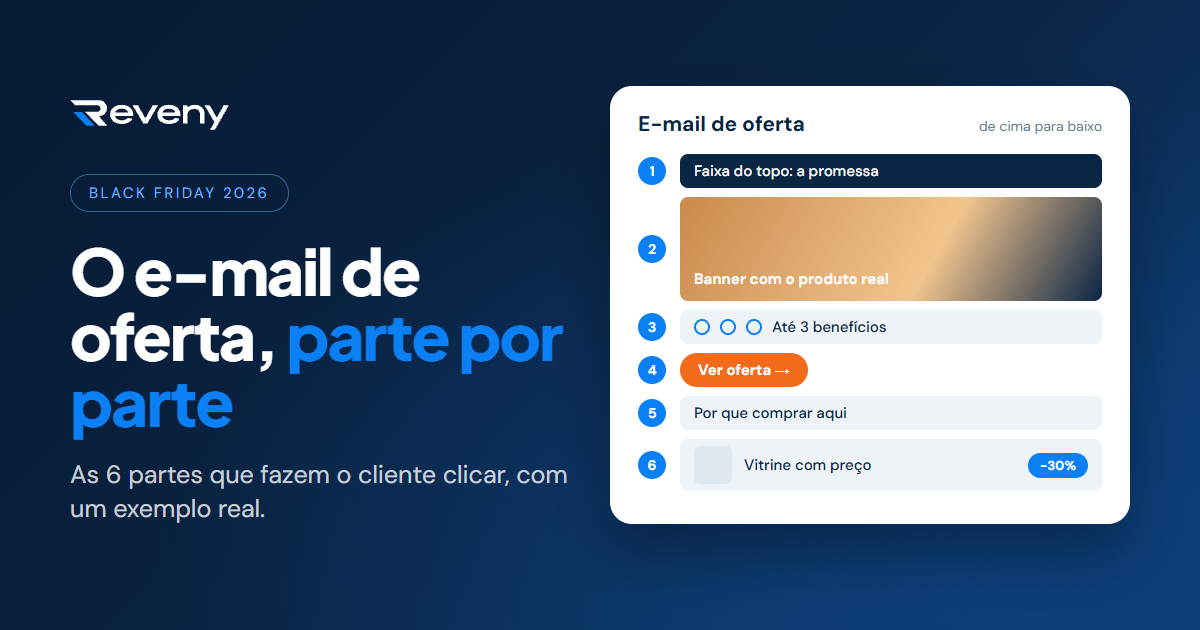
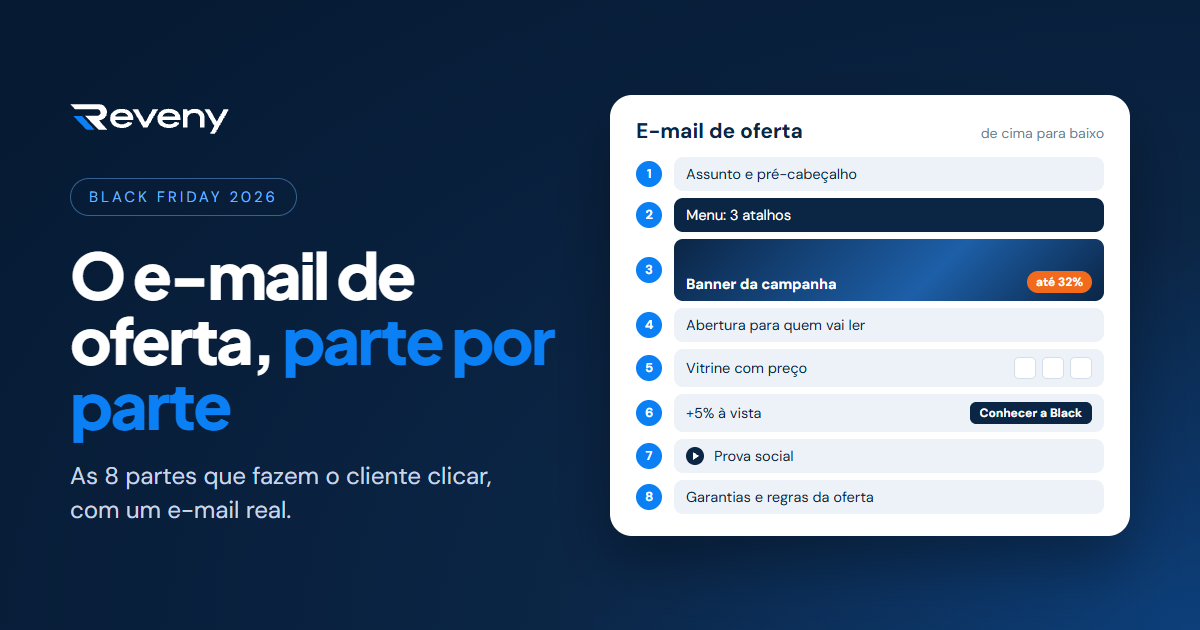
fix(blog): post do e-mail de oferta reescrito com o e-mail Black Novembro
O exemplo anterior era um teste cortado na vitrine (preço "xpto",
nome trocado). Agora usa o e-mail que a Casa das Cercas mandou pra quem
já comprou, inteiro, em 8 partes; capa nova.

diff --git a/src/content/blog/email-de-oferta-black-friday.md b/src/content/blog/email-de-oferta-black-friday.md
@@ -1,95 +1,121 @@
 ---
 title: "E-mail de oferta da Black Friday: como montar, parte por parte (com exemplo real)"
-description: "As 6 partes de um e-mail de oferta que funciona na Black Friday, do topo ao último botão, explicadas com um e-mail real da Casa das Cercas. E os erros que mais derrubam o clique."
+description: "As 8 partes de um e-mail de oferta de Black Friday, do assunto ao rodapé, explicadas com um e-mail real que a Casa das Cercas mandou para quem já tinha comprado na loja. E os erros que mais derrubam o clique."
 date: 2026-11-22T20:30:00Z
 tag: Black Friday
 cover: /capas/email-de-oferta-black-friday.png
-coverAlt: "E-mail de Black Friday dividido em partes numeradas: faixa do topo, banner, benefícios, botão, texto e vitrine"
+coverAlt: "E-mail de Black Friday dividido em 8 partes numeradas: assunto, menu, banner, abertura, vitrine, condição extra, prova social e garantias"
 ---
 
-Na Black Friday, o e-mail de oferta é o que mais trabalha. Ele vai na abertura da campanha, volta nos lembretes e de novo nas últimas horas. Se ele estiver mal montado, todo o resto da estratégia perde força: o [calendário](/blog/calendario-email-marketing-black-friday/) acerta o dia, o [assunto](/blog/assuntos-email-black-friday/) consegue a abertura, a [segmentação](/blog/segmentacao-email-black-friday/) acerta a pessoa, e o e-mail não convence.
+Na Black Friday, o e-mail de oferta é o que mais trabalha. Ele sai na abertura da campanha, volta nos lembretes e de novo nas últimas horas. Se ele estiver mal montado, o resto da estratégia perde força: o [calendário](/blog/calendario-email-marketing-black-friday/) acerta o dia, o [assunto](/blog/assuntos-email-black-friday/) consegue a abertura, a [segmentação](/blog/segmentacao-email-black-friday/) acerta a pessoa, e o e-mail não convence.
 
-Este guia mostra as partes de um e-mail de oferta, de cima para baixo, usando como exemplo um e-mail de verdade: o da Casa das Cercas, fábrica de cercas e gradis de aço que vende direto para o consumidor.
+Este guia mostra as partes de um e-mail de oferta, de cima para baixo, usando um e-mail de verdade: o "Black Novembro" da **Casa das Cercas**, loja virtual da indústria Insul, de cercas, gradis e telas de aço. Esse e-mail foi feito para um público específico: **quem já tinha comprado na loja**.
 
-![E-mail de Black Friday da Casa das Cercas, com faixa no topo, banner do Gradil Insul Preto, ícones de benefícios, botão Ver oferta, texto curto e vitrine de produtos](/exemplos/email-casa-das-cercas.jpg)
+![E-mail Black Novembro da Casa das Cercas: menu no topo, banner com o Gradil Insul e até 32% de desconto, título da marca, texto para quem já comprou, vitrine com três produtos, faixa de 5% de desconto à vista, dois vídeos de clientes e faixa de garantias](/exemplos/casa-das-cercas-black-novembro.jpg)
 
-## 1. A faixa do topo: a promessa em uma linha
+## 1. Assunto e pré-cabeçalho: falar com quem vai ler
 
-Logo abaixo do logo, uma faixa curta diz do que se trata: *"BLACK FRIDAY: preço de fábrica direto pra você"*.
+Antes de qualquer imagem, o e-mail precisa ser aberto. O da Casa das Cercas chegou assim:
 
-É a primeira coisa que aparece quando a pessoa abre o e-mail, antes mesmo de as imagens carregarem. Ela confirma o que o assunto prometeu e já entrega o motivo para continuar lendo. Uma regra simples: a faixa deve conseguir vender sozinha, mesmo que a pessoa não role a tela.
+- **Assunto:** *"🔥 Você já conhece a Casa das Cercas. Agora conheça a nossa Black."*
+- **Pré-cabeçalho** (a linha cinza que aparece depois do assunto na caixa de entrada): *"Gradil G4 com até 26% OFF e tubos com preço de Black, e +5% à vista."*
 
-## 2. O banner: o produto real e o que ele ganha
+Repare na divisão de tarefas. O assunto fala com a pessoa: ela já conhece a loja, porque já comprou. O pré-cabeçalho entrega a oferta, com produto e número. Quem lê só a caixa de entrada já sabe do que se trata, e quem se interessa abre.
 
-O banner é o centro do e-mail. No exemplo, ele faz três coisas ao mesmo tempo:
+## 2. O menu do topo: três atalhos, nada mais
 
-- **Mostra o produto de verdade**, instalado, num cenário em que o cliente se imagina. Não é uma arte genérica de "Black Friday" com fundo preto e etiqueta de preço.
-- **Nomeia o produto** numa linha pequena acima do título ("Gradil Insul Preto"). Quem entende do assunto reconhece na hora.
-- **Diz qual é a vantagem** no título: *"Cercamento de aço com desconto real"*. A palavra "real" está ali de propósito. Na Black Friday, o consumidor brasileiro desconfia de desconto inflado, e o título já responde a essa desconfiança.
+Logo abaixo do logo, três links: **Novidades**, **Mais vendidos** e **Coleção**.
 
-Se a loja vende vários produtos, escolha **um** para o banner. É ele que vai segurar a atenção. Os outros vão para a vitrine, mais abaixo.
+É pouco, e de propósito. O menu serve para quem quer sair do e-mail direto para uma parte da loja. Mais do que três ou quatro links vira uma barra de navegação que ninguém lê no celular.
 
-## 3. Os benefícios: no máximo três, em poucas palavras
+## 3. O banner: a campanha, o produto e o desconto
 
-No canto do banner, três ícones com uma palavra cada: **Segurança**, **Estética** e **Painéis pintados**.
+O banner é a arte da campanha "Black Novembro", feita pelo design da marca. Ele faz três coisas ao mesmo tempo:
 
-Esses ícones resolvem uma dúvida que a pessoa teria ("mas é bom?") sem obrigá-la a ler um parágrafo. Três é o limite. Com cinco ou seis, ninguém lê nenhum.
+- **Mostra o nome da campanha**, que se repete em todos os e-mails de novembro. A pessoa reconhece na hora.
+- **Mostra um produto de verdade**, o Gradil Insul, com a promessa "Preço de fábrica".
+- **Destaca o desconto num selo** separado: "até 32% de desconto".
 
-## 4. Um botão, com um verbo claro
+Se a loja vende vários produtos, escolha **um** para o banner. É ele que segura a atenção. Os outros vão para a vitrine, mais abaixo.
 
-*"Ver oferta"*, num laranja que se destaca do azul da marca, dentro do próprio banner.
+## 4. A abertura: um texto que só serve para esse público
 
-Dois cuidados que fazem diferença no clique:
+Depois do banner vem a frase da marca, *"Há mais de 15 anos, cercando o que realmente tem valor"*, e um parágrafo curto:
 
-- **O botão tem que aparecer sem rolar a tela**, principalmente no celular, onde a maioria dos e-mails é aberta.
-- **O texto diz o que acontece depois do clique.** "Ver oferta" ou "Comprar agora" funcionam melhor que "Clique aqui" ou "Saiba mais".
+> *"Você já comprou com a Casa das Cercas. E hoje queremos te convidar para conhecer as condições que preparamos para a Black. Seja para uma nova fachada, um canil, uma área de lazer ou aquele projeto que ficou para depois, temos soluções para diferentes necessidades."*
 
-## 5. O texto curto: por que comprar *aqui*
+Esse texto só funciona para quem já comprou, e é por isso que ele é bom. Ele reconhece a compra anterior e dá ideias do que a pessoa pode fazer agora, com exemplos concretos: fachada, canil, área de lazer. Um e-mail para a base inteira não conseguiria falar assim.
 
-Abaixo do banner, um parágrafo só: *"compre direto da fábrica, com aço Gerdau certificado, sem intermediários e sem preço inflado"*.
+Esse texto está **escrito no e-mail, e não dentro da imagem**. Quem abre com as imagens desligadas, o que é comum em alguns programas de e-mail corporativo, ainda entende a mensagem.
 
-Na Black Friday, todo mundo tem desconto. O que diferencia a loja é o motivo para comprar dela e não do concorrente. No caso da Casa das Cercas, são três: preço de fábrica, matéria-prima certificada e nenhum intermediário. Cada cliente da agência tem os seus. Vale descobrir quais são antes de montar o primeiro e-mail da campanha.
+## 5. A vitrine: preço, selo de desconto e um botão por produto
 
-Esse texto também tem uma função técnica: ele está escrito no e-mail, e não dentro da imagem. Quem abre com as imagens desligadas (é comum em alguns programas de e-mail corporativo) ainda entende a oferta.
+Três produtos: dois tamanhos de Gradil G4 e um tubo com base. Cada um tem:
 
-## 6. A vitrine: preço, selo de desconto e um botão por produto
-
-Depois de uma faixa que separa as seções ("Confira as promoções"), vêm os produtos. Cada um com foto, nome completo, preço, um selo com o desconto e o próprio botão de "Comprar agora".
+- **foto do produto** em fundo branco;
+- **selo com o desconto** (16%, 26%, 16%);
+- **nome com a medida**, porque quem compra cerca compra pelo tamanho;
+- **preço** em destaque, na cor da campanha (o Gradil G4 de 1,53 m, por exemplo, sai por R$ 267,96);
+- **botão próprio**, que leva direto para a página daquele produto.
 
 O que faz uma vitrine funcionar:
 
 - **O preço aparece.** E-mail de oferta sem preço obriga a pessoa a clicar para descobrir se vale a pena, e muita gente não clica.
-- **Cada produto tem seu botão**, que leva direto para a página dele, não para a página inicial da loja.
-- **Poucos produtos**, de preferência os mais vendidos ou os de maior desconto. A vitrine de um e-mail não é o catálogo da loja.
+- **Os produtos combinam.** Gradil e tubo são comprados juntos. A vitrine sugere o projeto inteiro, não três ofertas soltas.
+- **Poucos produtos.** A vitrine de um e-mail não é o catálogo da loja.
+
+## 6. A condição extra e o botão principal
+
+Depois de mais uma frase curta para quem comprou uma vez só, vem um bloco separado: **"+5% de desconto à vista. Aplicado automaticamente no pedido."** Logo abaixo, o botão principal do e-mail: **"Conhecer a Black"**.
+
+Dois detalhes que fazem diferença:
+
+- **A condição extra tem um bloco só dela.** Misturada na vitrine, ela se perderia. Sozinha, vira um segundo motivo para comprar agora.
+- **"Aplicado automaticamente"** responde a dúvida antes que ela apareça: não precisa de cupom, não tem como esquecer.
+
+## 7. A prova social: gente de verdade usando o produto
+
+Dois vídeos curtos, com botão de play, de clientes conhecidos do público da loja: o apresentador **André Marques** e o biólogo **Richard Rasmussen**. Embaixo: *"já estão aproveitando a Black Novembro da Casa das Cercas. Agora é a sua vez!"*
+
+Na Black Friday, o cliente desconfia de tudo. Ver alguém conhecido usando o produto pesa mais do que qualquer adjetivo. Não precisa ser famoso: foto de cliente, avaliação real ou obra pronta cumprem o mesmo papel.
+
+Uma observação técnica: e-mail não roda vídeo. O que aparece é uma imagem com o botão de play, que leva para o vídeo no site ou nas redes. Funciona bem e é o jeito certo de fazer.
+
+## 8. As garantias e as regras da oferta
+
+No fim, uma faixa com quatro ícones: **5% à vista**, **compra segura**, **atendimento dedicado** e **produto original**. São as respostas para as dúvidas de quem está quase comprando, mas ainda hesita.
+
+E no rodapé, em letra pequena, a regra: *"Ofertas válidas para produtos selecionados até dia 30/11/2026 ou enquanto durar os estoques."* Dizer até quando a oferta vale evita reclamação e protege a loja. Além disso, é uma urgência de verdade, sem precisar inventar contagem regressiva.
 
 ## Os erros que mais derrubam o clique
 
 - **O e-mail inteiro numa imagem só.** Se a imagem não carrega, o e-mail chega em branco. E o Gmail costuma cortar e-mails pesados.
 - **Banner sem produto.** "BLACK FRIDAY" em letras gigantes e mais nada não diz o que está à venda.
 - **Desconto que não se sustenta.** Se o preço "de" nunca foi praticado, o cliente percebe, e a loja perde a confiança justamente na época em que mais precisa dela.
+- **Vitrine com preço por preencher.** Antes de enviar, confira preço, nome e foto de cada produto. Um "R$ 0,00" ou um nome trocado derruba a confiança no e-mail inteiro.
 - **Botão escondido no fim.** Se a pessoa precisa rolar três telas para achar onde clicar, boa parte desiste antes.
-- **Mesmo e-mail para todo mundo, o mês todo.** Troque pelo menos o banner entre a abertura, os lembretes e as últimas horas, para quem já viu o primeiro e-mail ter um motivo para abrir o segundo.
+- **O mesmo e-mail para todo mundo.** O e-mail do exemplo funciona porque fala com quem já comprou. Para quem nunca comprou, a abertura precisaria ser outra.
 
 ## Como a Casa das Cercas montou esse e-mail
 
-O e-mail do exemplo foi montado na Reveny. A partir do link do produto, a plataforma gerou o banner com a foto real do gradil, os textos no tom da marca e a vitrine com o preço da loja. Depois, a equipe ajustou o que quis no editor.
+O e-mail foi montado na Reveny. O analista de marketing da loja criou um modelo de e-mail com a IA e, a partir dele, fez um e-mail para cada público, trocando o texto, os produtos e o assunto. O banner é a arte da campanha feita pelo design da marca. Foram 34 e-mails em um dia, e a história completa está no [case da Casa das Cercas](/blog/case-casa-das-cercas/).
 
-Perguntamos à equipe da Casa das Cercas como estava sendo usar a plataforma:
-
-> "Tá ótimo, cara. Foi uma mão na roda. Se não fosse a plataforma, eu tava ferrado."
+> "Foi uma mão na roda. Se não fosse a plataforma, eu estava ferrado."
 >
-> **Equipe da Casa das Cercas**
+> **Analista de marketing da Casa das Cercas**
 
 Para uma agência, a conta é simples: cada cliente precisa de vários e-mails de oferta entre o começo de novembro e a Cyber Monday. Quando cada um leva horas para ficar pronto, a equipe chega na semana da Black Friday sem fôlego.
 
 ## Checklist do e-mail de oferta
 
-- [ ] Faixa do topo que vende a oferta em uma linha
-- [ ] Banner com o produto real, nomeado, e a vantagem no título
-- [ ] No máximo três benefícios, com uma ou duas palavras cada
-- [ ] Botão visível sem rolar a tela, com um verbo claro
-- [ ] Um parágrafo curto com o motivo para comprar *nesta* loja, escrito no e-mail (não na imagem)
+- [ ] Assunto que fala com o público e pré-cabeçalho que entrega a oferta
+- [ ] Menu com no máximo três ou quatro atalhos
+- [ ] Banner com o nome da campanha, um produto real e o desconto em destaque
+- [ ] Abertura escrita para quem vai receber, em texto (não dentro da imagem)
 - [ ] Vitrine com preço, selo de desconto e um botão por produto
-- [ ] Banner diferente na abertura, nos lembretes e nas últimas horas
+- [ ] Preço, nome e foto de cada produto conferidos antes do envio
+- [ ] Condição extra num bloco só dela, com o botão principal logo abaixo
+- [ ] Prova social: vídeo, foto ou avaliação de cliente de verdade
+- [ ] Faixa de garantias e regra da oferta (até quando vale) no rodapé
 
-Com esse esqueleto pronto, o trabalho de cada nova campanha passa a ser trocar o produto e a oferta, e não montar o e-mail do zero.
+Com esse esqueleto pronto, o trabalho de cada nova campanha passa a ser trocar o público, o produto e a oferta, e não montar o e-mail do zero.
